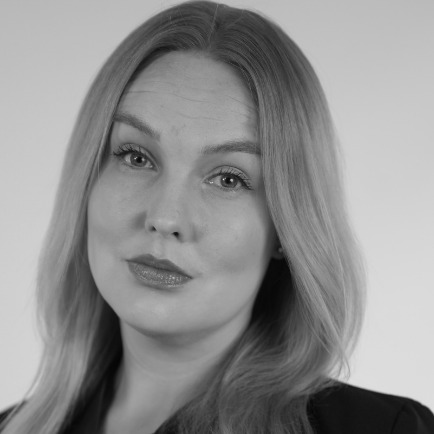
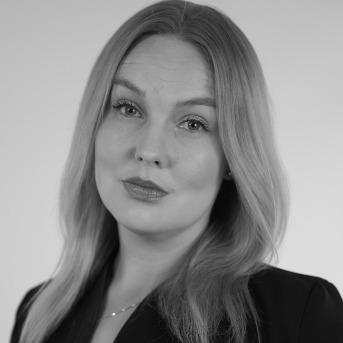
pitch-2026-draft, talk-pitch: swap Varia headshot to latest submitted crop, B&W
Claude-Session: https://claude.ai/code/session_016SVeuAERxN7SDk7p2MbYfZ

diff --git a/pitch-2026-draft/index.html b/pitch-2026-draft/index.html
@@ -1565,7 +1565,7 @@
       <div class="team-layout">
         <div class="team-grid">
           <div class="team-member">
-            <div class="team-headshot"><img src="team-varia.jpg?v=7" alt="Varia Wahlroos-Kaitila"></div>
+            <div class="team-headshot"><img src="team-varia.jpg?v=8" alt="Varia Wahlroos-Kaitila"></div>
             <div class="team-info">
               <div class="team-name">Varia Wahlroos-Kaitila <span class="team-tag">CEO</span></div>
               <div class="team-ffg"><span class="t-find">Find</span><span class="t-grow">Grow</span></div>

diff --git a/talk-pitch/index.html b/talk-pitch/index.html
@@ -1828,7 +1828,7 @@
       <div class="team-layout">
         <div class="team-grid">
           <div class="team-member">
-            <div class="team-headshot"><img src="team-varia.jpg?v=7" alt="Varia Wahlroos-Kaitila"></div>
+            <div class="team-headshot"><img src="team-varia.jpg?v=8" alt="Varia Wahlroos-Kaitila"></div>
             <div class="team-info">
               <div class="team-name">Varia Wahlroos-Kaitila <span class="team-tag">CEO</span></div>
               <div class="team-ffg"><span class="t-find">Find</span><span class="t-grow">Grow</span></div>
